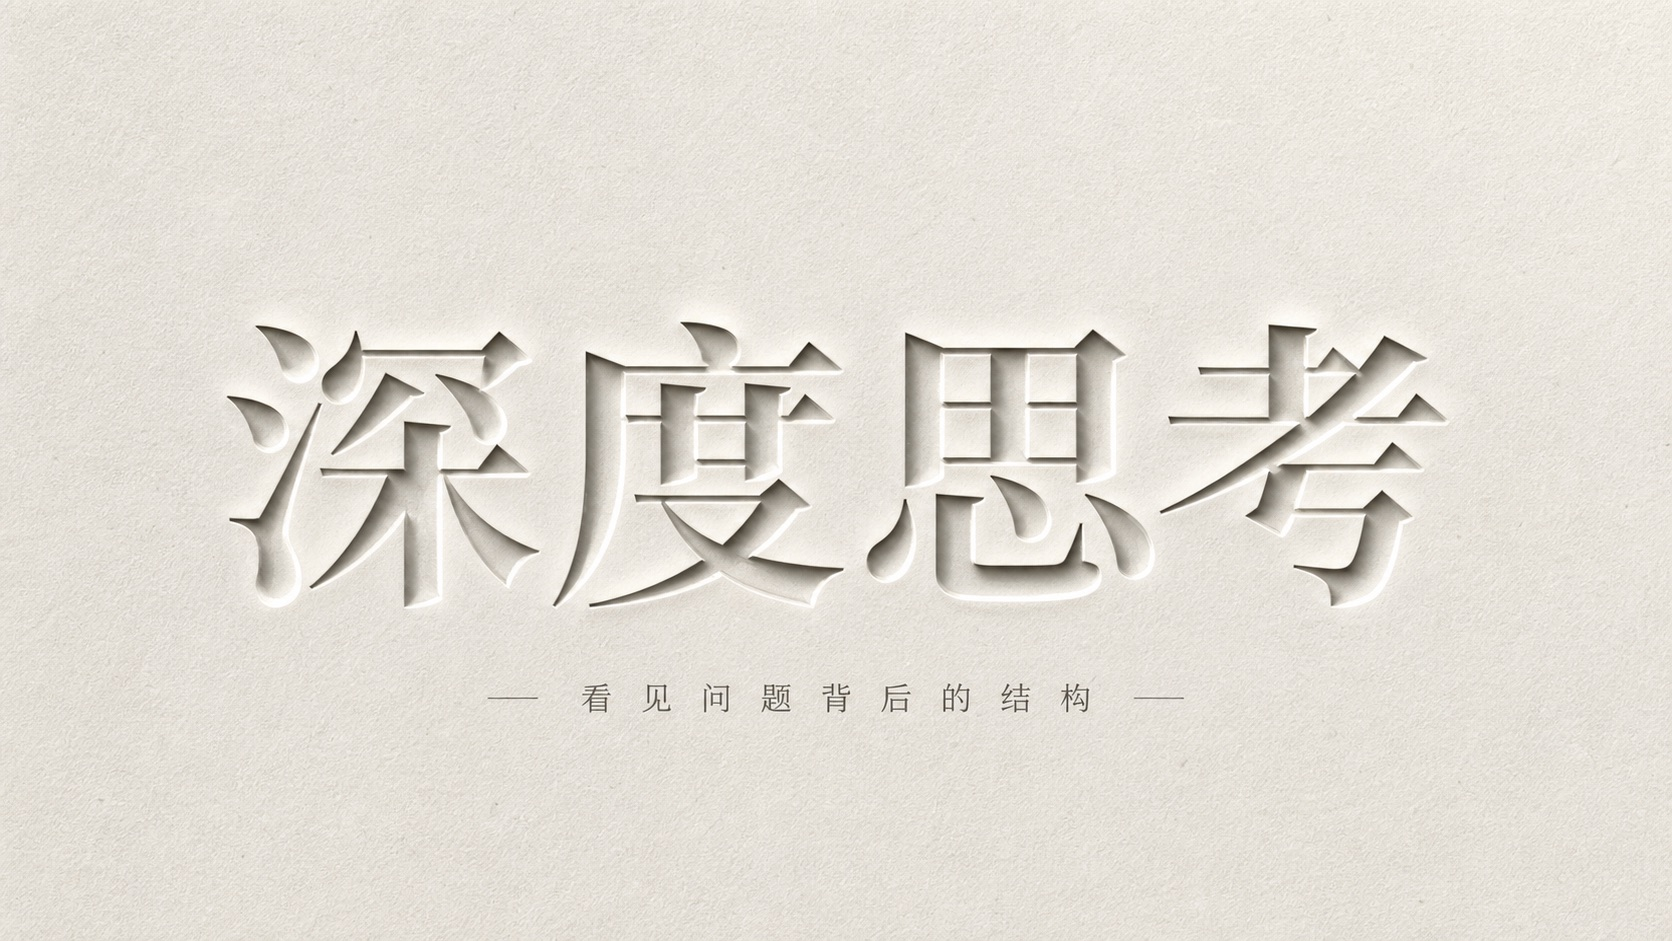
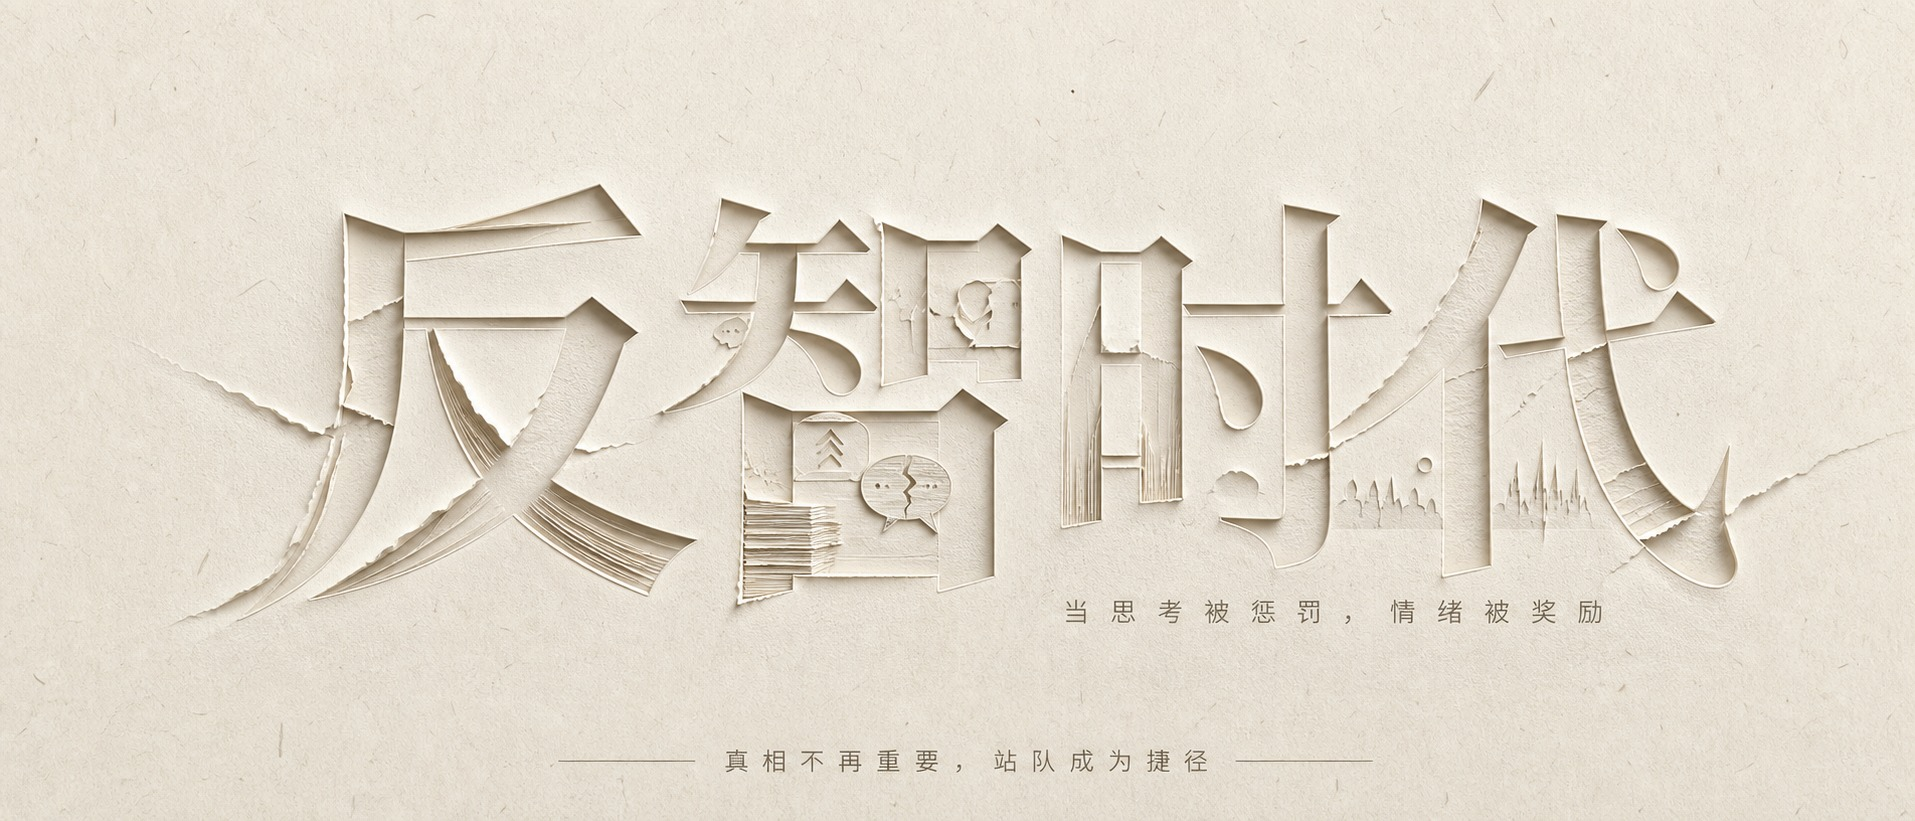
Update typography style examples in README

Changed region(s): [[0.0933, 0.2132, 0.933, 0.7613], [0.3732, 0.9135, 0.6531, 0.944]]

diff --git a/README.md b/README.md
@@ -19,22 +19,49 @@
 
 | style_id | 风格名 | 适合场景 |
 | --- | --- | --- |
-| `handdrawn_knowledge_card` | 手绘知识风 | 默认；正文配图、知识图解、方法论、流程图、对比图 |
-| `oriental_editorial_illustration` | 典籍山水风 | 文化、历史、人文、哲学类高级封面 |
-| `study_note_card` | 学习笔记风 | 学习方法、笔记整理、步骤教程、知识清单 |
-| `pastel_learning_pyramid` | 粉彩金字塔风 | 分层模型、学习金字塔、能力进阶、成长路径 |
-| `childlike_cultural_infographic` | 童趣科普风 | 传统文化科普、儿童教育、器物拆解 |
-| `frosted_glass_editorial` | 磨砂情绪风 | 心理情绪、孤独感、音乐艺术主题 |
-| `translucent_object_editorial` | 透明物件风 | 设计主题、品牌设计、作品集封面、工具系统封面 |
-| `glassmorphism_gradient_blob` | 玻璃气泡风 | 品牌视觉、创意展览、趋势报告、AI 主题 |
-| `embossed_typography_poster` | 纸雕字体风 | 极简封面、品牌口号、深度思考、书封设计 |
-| `acrylic_dimensional_type` | 亚克力字风 | 品牌关键词、栏目标题、创意概念、年轻化封面 |
+| `handdrawn_knowledge_card` | 手绘知识卡片风 | 默认；正文配图、知识图解、方法论、流程图、对比图 |
+| `oriental_editorial_illustration` | 东方典籍杂志插画风 | 文化、历史、人文、哲学类高级封面 |
+| `study_note_card` | 学习笔记卡片风 | 学习方法、笔记整理、步骤教程、知识清单 |
+| `pastel_learning_pyramid` | 彩色手绘学习金字塔风 | 分层模型、学习金字塔、能力进阶、成长路径 |
+| `childlike_cultural_infographic` | 儿童手绘文化科普风 | 传统文化科普、儿童教育、器物拆解 |
+| `frosted_glass_editorial` | 透明磨砂感人物海报风 | 心理情绪、孤独感、音乐艺术主题 |
+| `translucent_object_editorial` | 透明材质物件海报风 | 设计主题、品牌设计、作品集封面、工具系统封面 |
+| `glassmorphism_gradient_blob` | 玻璃拟态渐变气泡风 | 品牌视觉、创意展览、趋势报告、AI 主题 |
+| `embossed_typography_poster` | 浮雕纸雕字体海报风 | 极简封面、品牌口号、深度思考、书封设计 |
+| `acrylic_dimensional_type` | 亚克力立体字母风 | 品牌关键词、栏目标题、创意概念、年轻化封面 |
 | `dark_neon_search_ui` | 霓虹搜索风 | AI 搜索、知识探索、信息检索、灵感发现 |
 | `black_void_glowing_hands` | 黑场肢体风 | 心理主题、情绪主题、关系连接、孤独感 |
 | `soft_neumorphism_ui` | 柔光界面风 | 产品功能封面、AI 工具界面、智能家居、效率工具 |
 | `minimal_line_shadow_brand` | 线性品牌风 | 新品发布、品牌封面、科技产品、数字主题 |
 | `white_mono_texture_editorial` | 白色肌理风 | 深度文章封面、设计作品集、哲学主题、个人品牌 |
 | `minimal_architecture_portfolio` | 建筑线稿风 | 作品集封面、人生路径、职业路径、空间叙事 |
+
+## 风格效果示例
+
+下面 10 张图用于展示核心风格的视觉效果，实际生成时会根据用户文章主题、任务类型和指定 `style_id` 自动调整。
+
+<table>
+  <tr>
+    <td width="50%"><strong>01｜手绘知识卡片风</strong><br><code>handdrawn_knowledge_card</code><br><img src="assets/examples/01-handdrawn-knowledge-card.jpg" alt="手绘知识卡片风示例"></td>
+    <td width="50%"><strong>02｜东方典籍杂志插画风</strong><br><code>oriental_editorial_illustration</code><br><img src="assets/examples/02-oriental-editorial-illustration.jpg" alt="东方典籍杂志插画风示例"></td>
+  </tr>
+  <tr>
+    <td width="50%"><strong>03｜学习笔记卡片风</strong><br><code>study_note_card</code><br><img src="assets/examples/03-study-note-card.jpg" alt="学习笔记卡片风示例"></td>
+    <td width="50%"><strong>04｜彩色手绘学习金字塔风</strong><br><code>pastel_learning_pyramid</code><br><img src="assets/examples/04-pastel-learning-pyramid.jpg" alt="彩色手绘学习金字塔风示例"></td>
+  </tr>
+  <tr>
+    <td width="50%"><strong>05｜儿童手绘文化科普风</strong><br><code>childlike_cultural_infographic</code><br><img src="assets/examples/05-childlike-cultural-infographic.jpg" alt="儿童手绘文化科普风示例"></td>
+    <td width="50%"><strong>06｜透明磨砂感人物海报风</strong><br><code>frosted_glass_editorial</code><br><img src="assets/examples/06-frosted-glass-editorial.jpg" alt="透明磨砂感人物海报风示例"></td>
+  </tr>
+  <tr>
+    <td width="50%"><strong>07｜透明材质物件海报风</strong><br><code>translucent_object_editorial</code><br><img src="assets/examples/07-translucent-object-editorial.jpg" alt="透明材质物件海报风示例"></td>
+    <td width="50%"><strong>08｜玻璃拟态渐变气泡风</strong><br><code>glassmorphism_gradient_blob</code><br><img src="assets/examples/08-glassmorphism-gradient-blob.jpg" alt="玻璃拟态渐变气泡风示例"></td>
+  </tr>
+  <tr>
+    <td width="50%"><strong>09｜浮雕纸雕字体海报风</strong><br><code>embossed_typography_poster</code><br><img src="assets/examples/09-embossed-typography-poster.jpg" alt="浮雕纸雕字体海报风示例"></td>
+    <td width="50%"><strong>10｜亚克力立体字母风</strong><br><code>acrylic_dimensional_type</code><br><img src="assets/examples/10-acrylic-dimensional-type.jpg" alt="亚克力立体字母风示例"></td>
+  </tr>
+</table>
 
 ## 默认匹配规则
 
